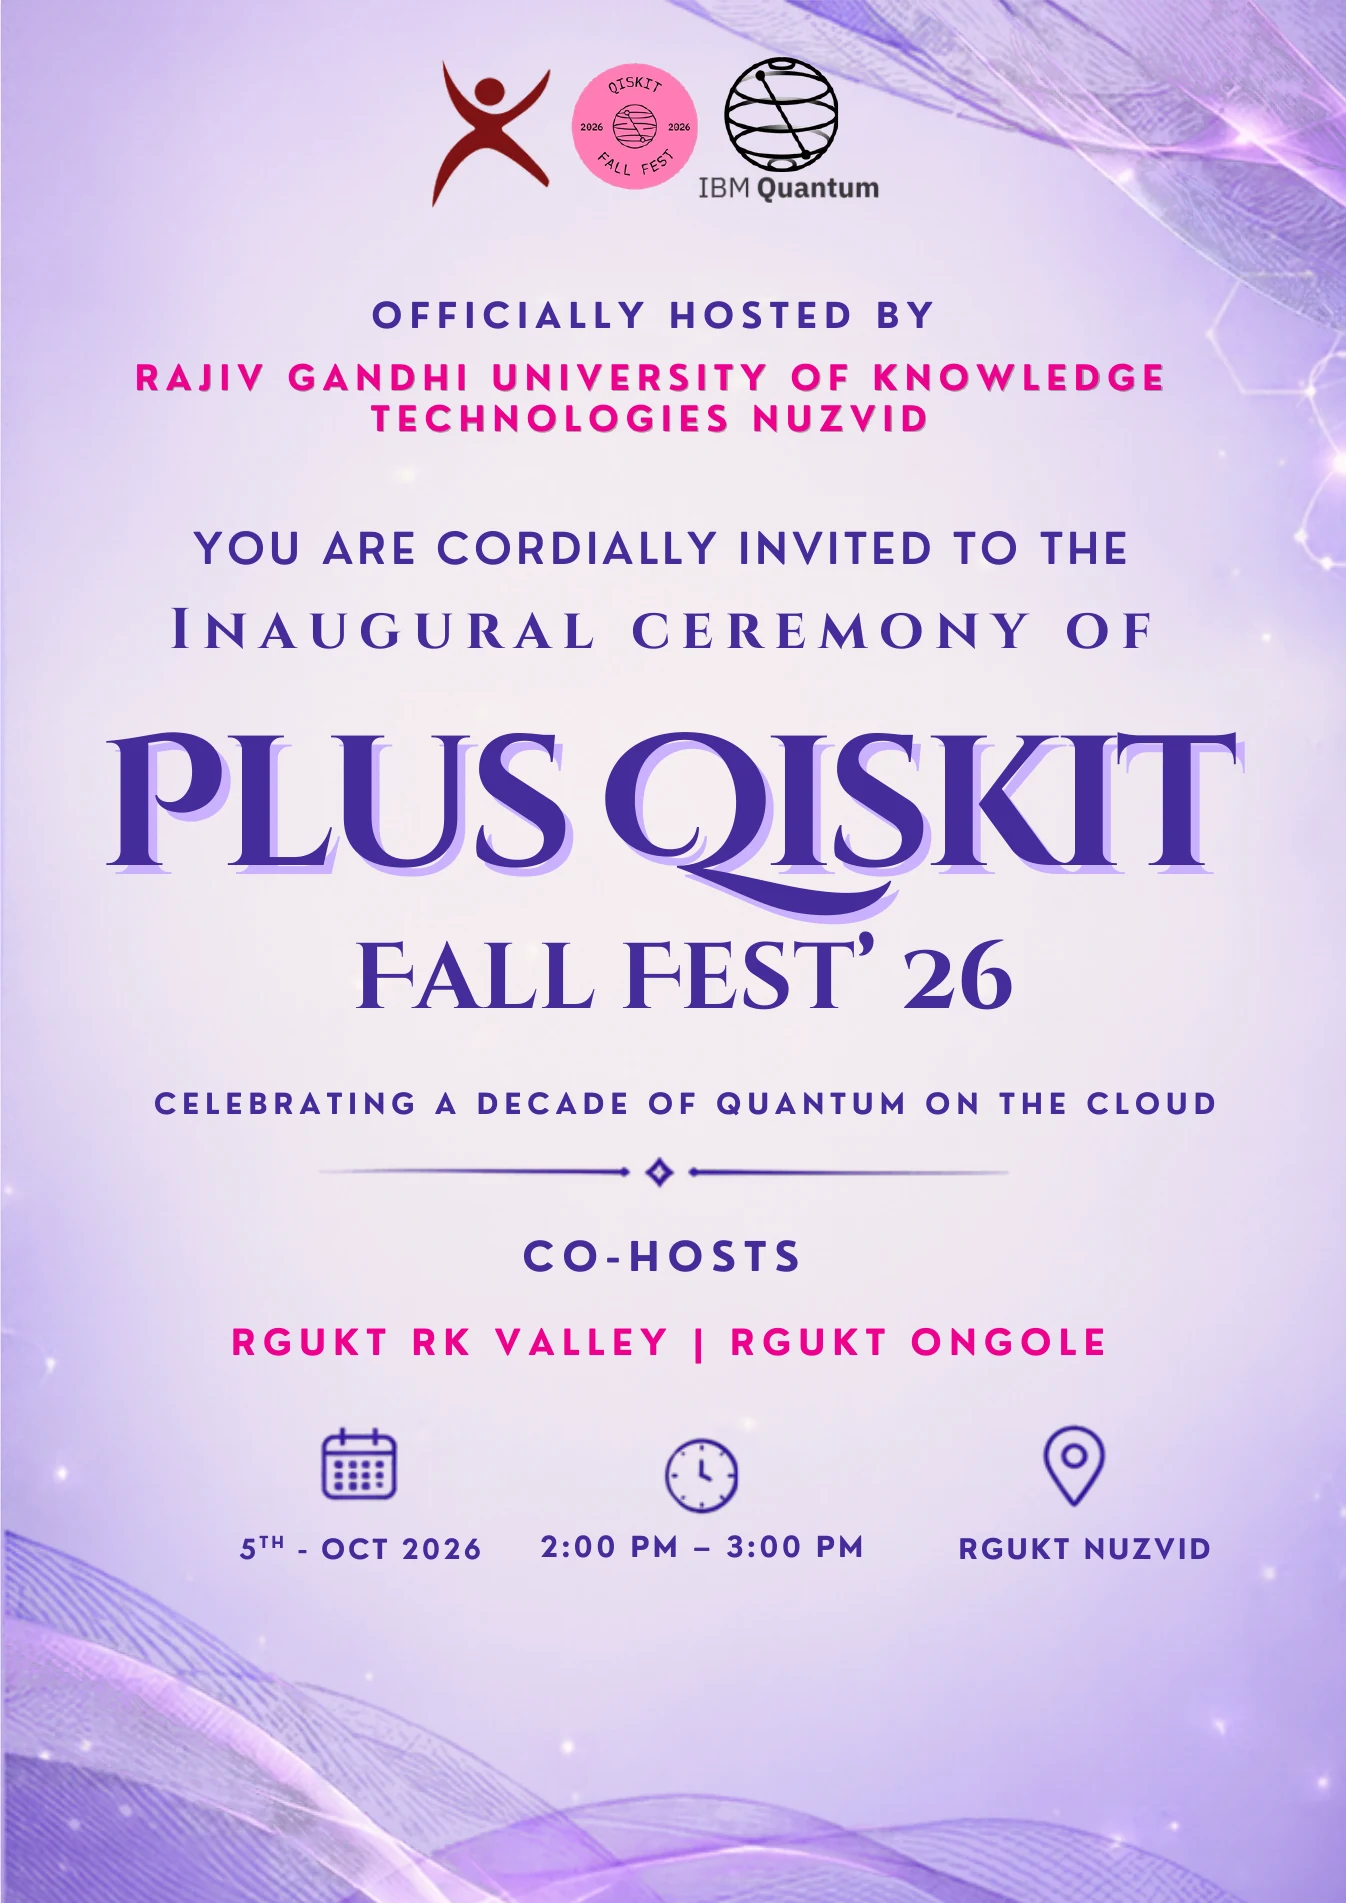
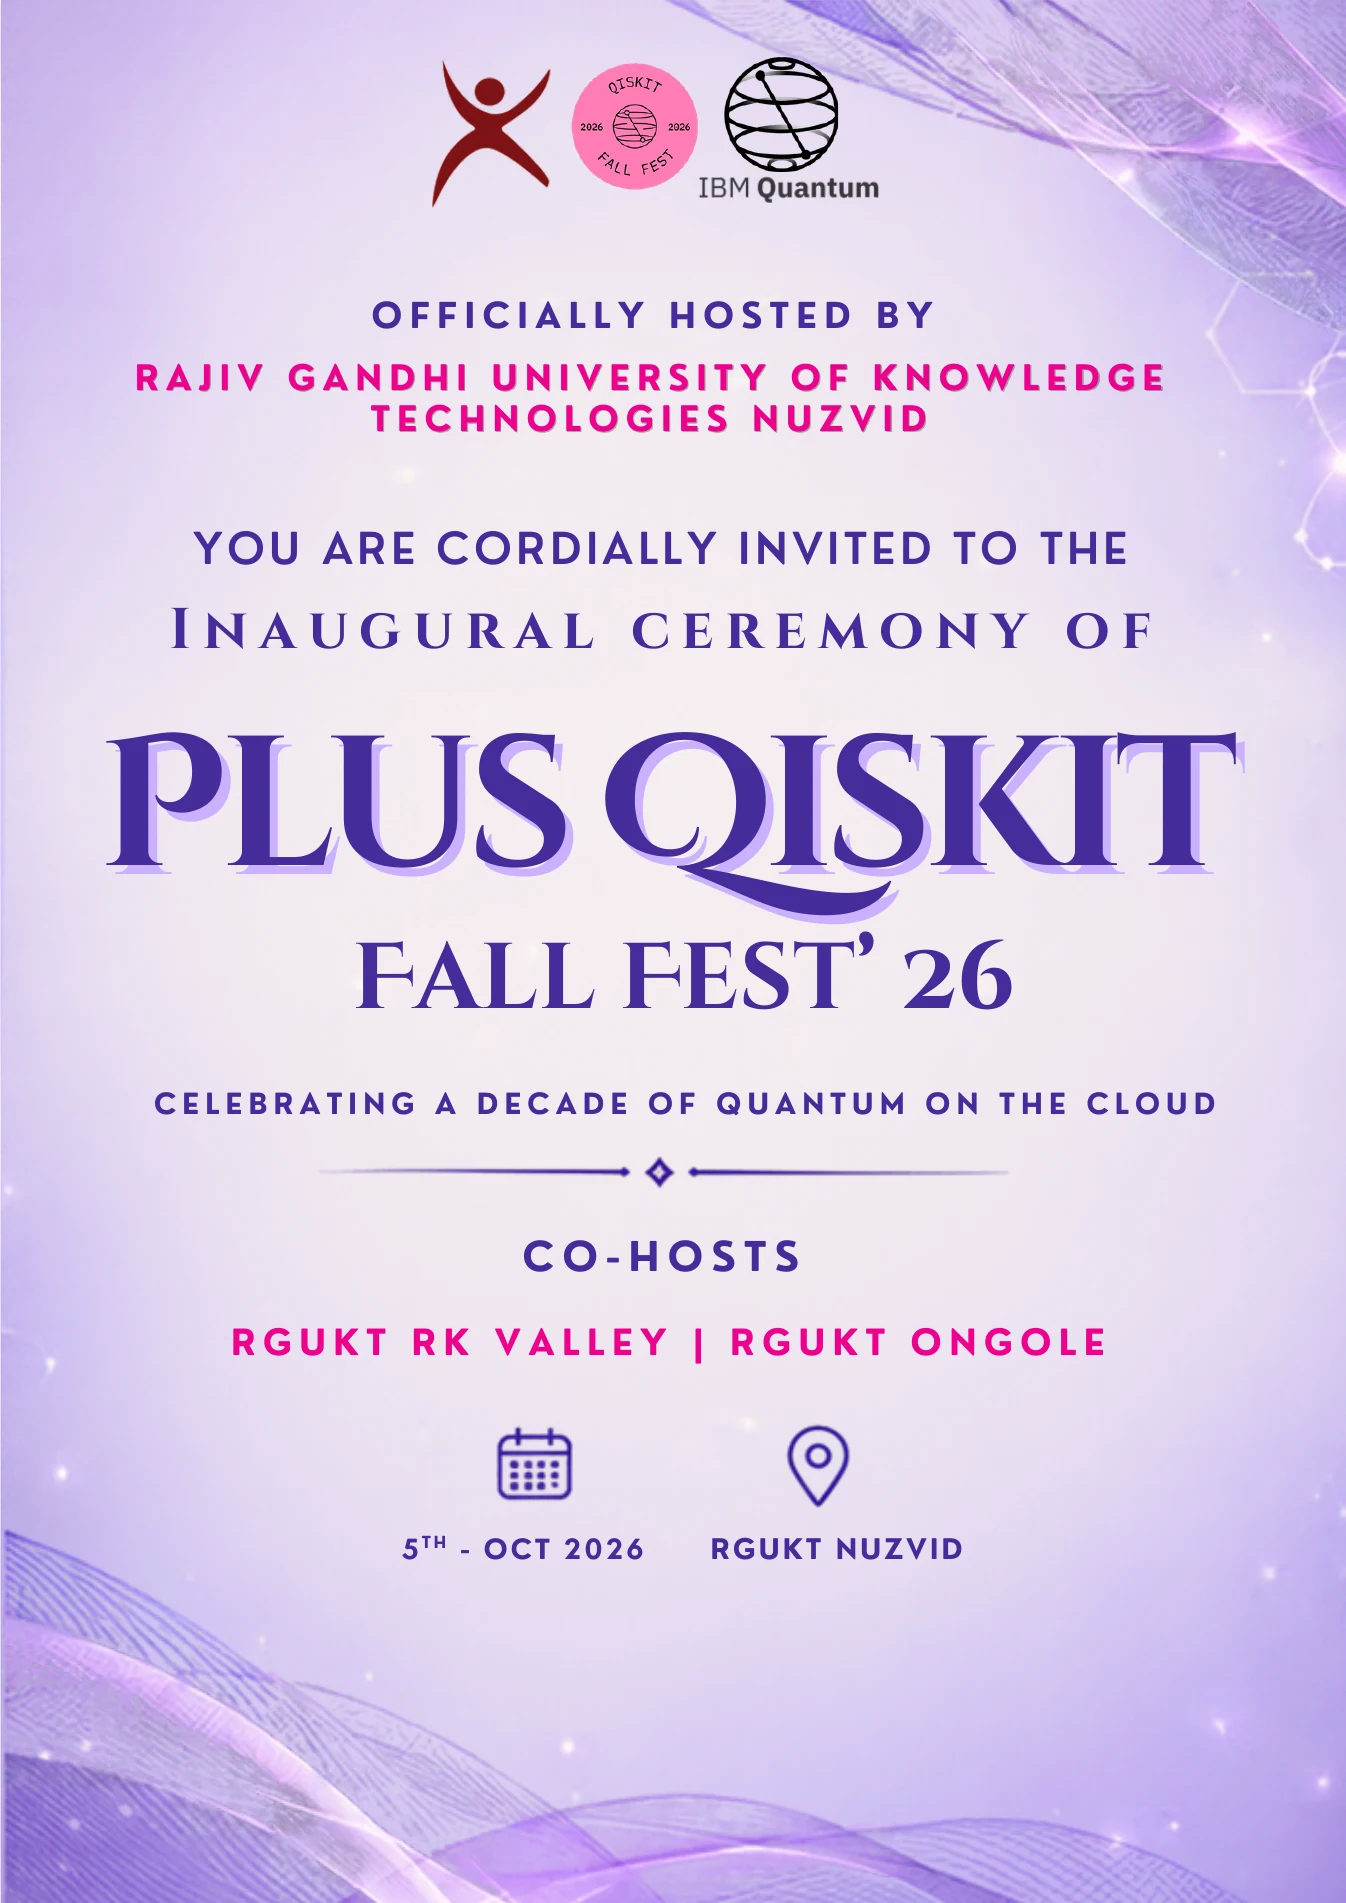
Update invitation pages from the new PDF (cover, schedule, speakers, about)

Changed region(s): [[0.4993, 0.7441, 0.9049, 0.8371], [0.2184, 0.7441, 0.4993, 0.8371]]

diff --git a/index.html b/index.html
@@ -5,9 +5,9 @@
     <meta name="viewport" content="width=device-width, initial-scale=1.0, viewport-fit=cover" />
     <meta name="theme-color" content="#ffffff" />
     <title>Plus Qiskit Fall Fest ’26 — Inauguration Invitation</title>
-    <meta name="description" content="Invitation to the inaugural ceremony of Plus Qiskit Fall Fest ’26 at RGUKT Nuzvid, 5 October 2026, 2:00 PM – 3:00 PM." />
+    <meta name="description" content="Invitation to the inaugural ceremony of Plus Qiskit Fall Fest ’26 at RGUKT Nuzvid on 5 October 2026." />
     <meta property="og:title" content="Plus Qiskit Fall Fest ’26 — Inauguration Invitation" />
-    <meta property="og:description" content="Inaugural ceremony · 5 Oct 2026 · 2:00 PM – 3:00 PM · RGUKT Nuzvid" />
+    <meta property="og:description" content="Inaugural ceremony · 5 Oct 2026 · RGUKT Nuzvid" />
     <meta property="og:image" content="./pages/page-1-cover-md.webp" />
     <link rel="icon" type="image/png" href="./favicon.png" />
   </head>

diff --git a/src/App.jsx b/src/App.jsx
@@ -8,7 +8,7 @@ const base = import.meta.env.BASE_URL
 const SITE_URL = 'https://www.qffrguktn.com'
 
 const PAGES = [
-  { src: `${base}pages/page-1-cover.webp`, srcMd: `${base}pages/page-1-cover-md.webp`, alt: 'Invitation cover: inaugural ceremony of Plus Qiskit Fall Fest 26, 5 October 2026, 2:00 PM to 3:00 PM, RGUKT Nuzvid' },
+  { src: `${base}pages/page-1-cover.webp`, srcMd: `${base}pages/page-1-cover-md.webp`, alt: 'Invitation cover: inaugural ceremony of Plus Qiskit Fall Fest 26, 5 October 2026, RGUKT Nuzvid' },
   { src: `${base}pages/page-2-schedule.webp`, srcMd: `${base}pages/page-2-schedule-md.webp`, alt: 'Event schedule, 5 to 9 October 2026' },
   { src: `${base}pages/page-3-speakers.webp`, srcMd: `${base}pages/page-3-speakers-md.webp`, alt: 'List of speakers' },
   { src: `${base}pages/page-4-about.webp`, srcMd: `${base}pages/page-4-about-md.webp`, alt: 'About RGUKT and Plus Qiskit Fall Fest 26, contact details and venue QR code' },
